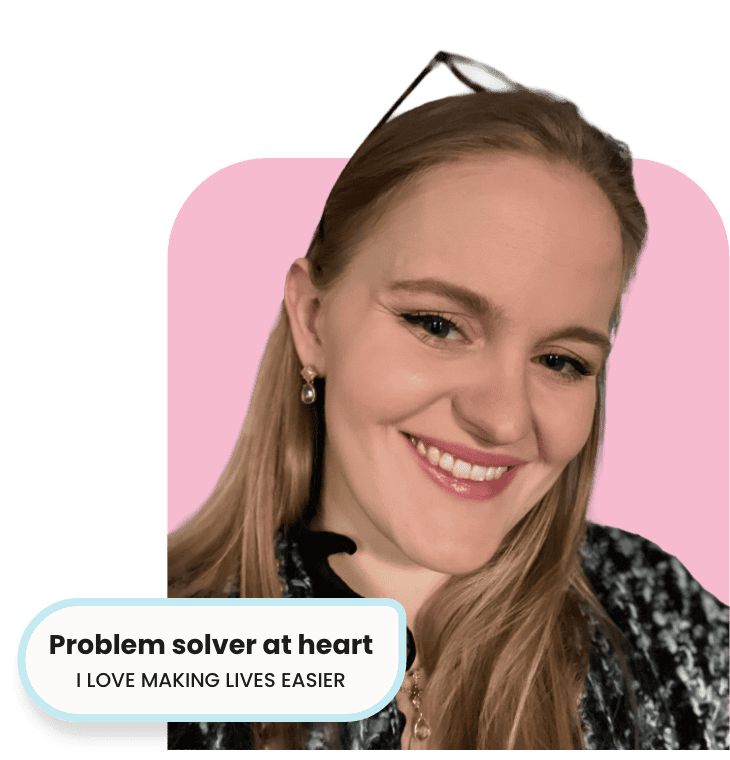
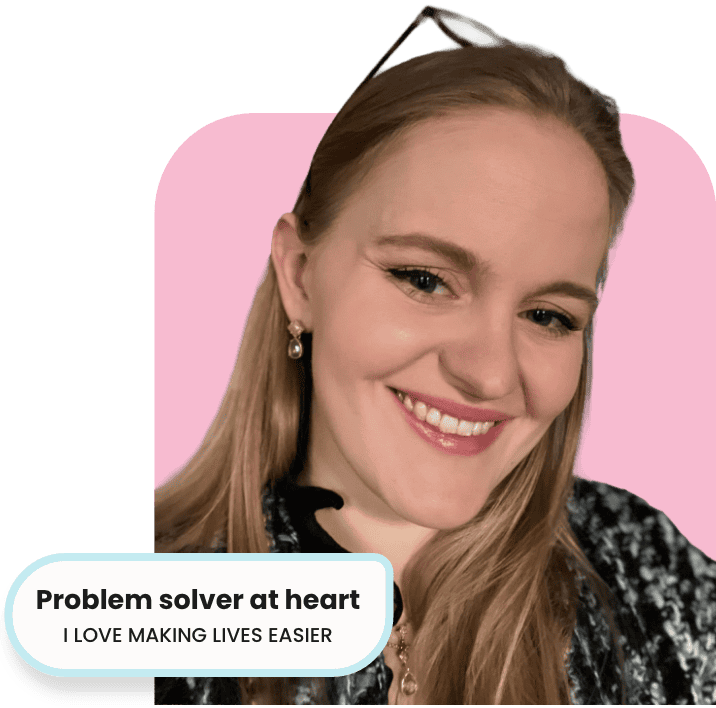
pages contact and projects created and css and text adapatation home

Changed region(s): [[0.0, 0.0, 1.0, 1.0]]

diff --git a/assets/CSS/main.css b/assets/CSS/main.css
@@ -24,14 +24,15 @@
 /* CSS Color variables */
 :root {
     /* Color */
-    --background-color: #FFFEF8;
-    --color-blue: #CCDBFD;
-    --color-pink: #EFDAFB;
-    --color-highlight: #45D6D0;
-    --color-text: #161F3A;
+    --color-white: #FDFBFA;
+    --color-blue: #C4EBF1;
+    --color-pink: #F291B3;
+    --color-action-pink: #D92363;
+    --color-main-burgandy: #7D0F1C;
+    --color-text: #1C1C1E;
     /* Container */
     --container-mobile: 90%;
-    --container-max: 1440px;
+    --container-max: 1100px;
     --container-narrow: 900px;
     --container-wide: 1440px;
     /* borders */
@@ -39,13 +40,14 @@
     --width-lg: 4px;
     /* Spaces */
     --space-30: 30px;
+    --space-10: 10px;
 }
 
 /* Fonts & Layout */
 html,
 body {
     font-family: 'Poppins', -apple-system, BlinkMacSystemFont, 'Segoe UI', Roboto, Arial, sans-serif;
-    background-color: var(--background-color);
+    background-color: var(--color-white);
     margin: 0;
     padding: 0;
     color: var(--color-text);
@@ -57,9 +59,10 @@ body {
     padding-inline: clamp(1rem, 4vw, 2rem);
 }
 
-.display-flex-center {
+.display-flex-center-center {
     display: flex;
     justify-content: center;
+    align-items: center;
 }
 
 .display-flex {
@@ -82,6 +85,12 @@ p {
     font: 400 1.125rem/1.7 'Poppins', sans-serif;
 }
 
+hr {
+    color: #FDFBFA !important;
+    border: none;
+    height: var(--space-10);
+}
+
 /* .home {
     padding: 4rem 0rem;
 } */
@@ -91,11 +100,11 @@ p {
     border-radius: var(--radius-md);
     padding: 15px 30px;
     text-decoration: none;
-    color: var(--color-text);
+    color: var(--color-white);
     border-width: var(--width-lg);
     border-style: solid;
-    margin-top: var(--space-30);
-
+    text-transform: uppercase;
+    font-weight: 500;
 }
 
 .two-button-section-element {
@@ -103,20 +112,19 @@ p {
 }
 
 .primary-btn {
-    background-color: var(--color-blue);
-    border-color: var(--color-blue);
+    background-color: var(--color-action-pink);
+    border-color: var(--color-action-pink);
 }
 
 .secondary-btn {
     border-color: var(--color-pink);
 }
 
-/* hero section */
-
 .highlight {
-    color: var(--color-highlight) !important;
+    color: var(--color-action-pink);
 }
 
+/* hero section */
 .hero-image {
     display: block;
     width: 70%;
@@ -126,9 +134,13 @@ p {
     margin-left: 100px;
 }
 
-
 .home-hero {
     margin-bottom: 4rem;
+
+}
+
+.space-30 {
+    margin-bottom: var(--space-30);
 }
 
 .home-projects h2 {

diff --git a/front-page.php b/front-page.php
@@ -3,18 +3,16 @@
 <main class="home">
     <!-- HERO (hardcoded) -->
     <section class="home-hero container">
-      <div class="display-flex-center">
+      <div class="display-flex-center-center">
         <div class="half-width-container hero-text">
-          <h1>Designing digital experiences that <span class="highlight">actually work</span>.</h1>
-          <h2>Clean interfaces, thoughtful UX, and websites built to support real business goals.</h2>
-          <h3 class="hero-subtitle">
-            I’m a UI/UX Designer & Web Strategist who bridges design, development, and strategy — turning complex ideas into intuitive, high-performing digital products.<br>
-            Professional, detail-driven, and yes… I enjoy the process too.
-          </h3>
-          <div class="display-flex two-button-section">
+          <h1>Designing digital<br>experiences that<br><span class="highlight">actually work</span>.</h1>
+          <h2 class="hero-h2">Strategy-led UX and high-performing websites.</h2>
+          <hr class="space-30">
+          <a href="/projects" class="primary-btn btn">Explore Case Studies</a>
+          <!-- <div class="display-flex two-button-section">
             <a href="/projects" class="primary-btn btn two-button-section-element">View all projects</a>
             <a href="/contact-me" class="secondary-btn btn two-button-section-element">View all projects</a>
-          </div>
+          </div> -->
         </div>
         
         <img class="half-width-container hero-image" src="<?php echo get_stylesheet_directory_uri(); ?>/assets/images/Pauline Noel Profile photo with chat bubble.png" alt="Portrait of Pauline Noël, web and UI/UX designer">
@@ -26,7 +24,9 @@
      <section class="container">
       <h2>Design is not just how it looks. It’s how it performs.</h2>
       <p>I help companies create websites and platforms that are clear, accessible, conversion-focused, and easy to maintain.<br>
-      No over-engineering. No unnecessary fluff. Just smart design decisions backed by strategy and execution.</p>
+      No over-engineering. No unnecessary fluff. Just smart design decisions backed by strategy and execution.
+      I’m a UI/UX Designer & Web Strategist who bridges design, development, and strategy — turning complex ideas into intuitive, high-performing digital products.<br>
+      Professional, detail-driven, and yes… I enjoy the process too.</p>
      </section>
     
     <!-- Services -->

diff --git a/page-contact.php b/page-contact.php
@@ -1,0 +1,30 @@
+<?php get_header(); ?>
+
+<main id="main" class="site-main">
+  <section class="container page-header">
+    <h1><?php the_title(); ?></h1>
+    <?php if ( has_excerpt() ) : ?>
+      <p class="lead"><?php echo get_the_excerpt(); ?></p>
+    <?php endif; ?>
+  </section>
+
+  <section class="container contact">
+    <div class="contact-grid">
+      <div class="contact-copy">
+        <h2>Let’s build something clear, fast, and beautiful.</h2>
+        <p>Email me at <a href="mailto:hello@yourdomain.com">hello@yourdomain.com</a> or use the form.</p>
+      </div>
+
+      <div class="contact-form">
+        <?php
+          // Option 1: Paste a shortcode from a form plugin (WPForms / CF7 / Fluent Forms)
+          // echo do_shortcode('[contact-form-7 id="123" title="Contact"]');
+
+          // Option 2: If you want pure code later, we can build a custom form handler.
+        ?>
+      </div>
+    </div>
+  </section>
+</main>
+
+<?php get_footer(); ?>
